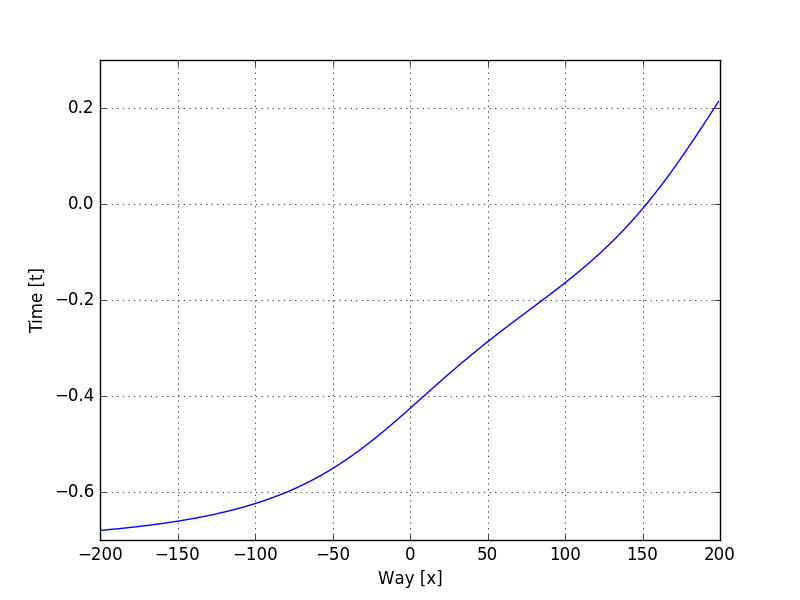
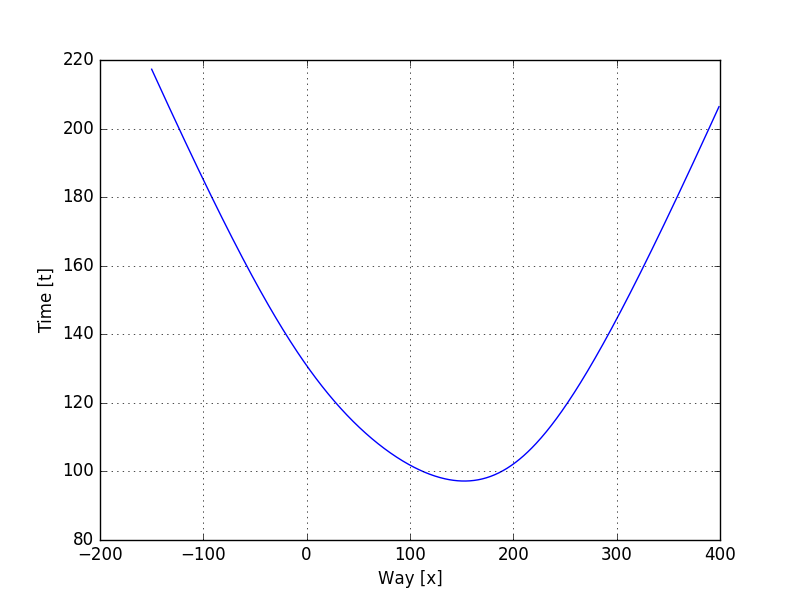
doc

diff --git a/doc/report.tex b/doc/report.tex
@@ -10,6 +10,11 @@
 \usepackage{listings}
 \usepackage{courier}
 
+\lstset{basicstyle=\footnotesize\ttfamily,
+    commentstyle=\color{Gray}\ttfamily,
+    belowcaptionskip=5em,
+    belowskip=4em,
+}
 \setcounter{secnumdepth}{4}
 \titleformat{\paragraph}
 {\normalfont\normalsize\bfseries}{\theparagraph}{1em}{}
@@ -58,44 +63,9 @@ Der Algorithmus läuft in $O(m\sqrt{k})$
 
 Wir implementierten für diesen Algorithmus eine Schlaufe, welche mit unterschiedlichen Lambdas die Zeit misst. Dies setzten wir anhand der obigen Funktion $x^2$ um. Folgende Messwerte erhalten wir:\\
 
-\begin{lstlisting}
-Run with lambda = 0.0001 --------------------------------
-Result = -0.000005
-Took 4.716165 ms 
+\lstinputlisting[language=bash]{grad_time.out}
 
-Run with lambda = 0.0501 --------------------------------
-Result = -0.002247
-Took 0.005039 ms 
 
-Run with lambda = 0.1001 --------------------------------
-Result = -0.003930
-Took 0.002226 ms 
-
-Run with lambda = 0.1501 --------------------------------
-Result = -0.003967
-Took 0.001478 ms
-
-...
-
-Run with lambda = 0.5001 --------------------------------
-Result = -0.000000
-Took 0.000219 ms 
-
-Run with lambda = 0.5501 --------------------------------
-Result = -0.000504
-Took 0.000340 ms
-
-... 
-
-Run with lambda = 0.9501 --------------------------------
-Result = -0.039679
-Took 0.003178 ms 
-
-Run with lambda = 1.0001 --------------------------------
-\end{lstlisting}
-
-\bigbreak
-\bigbreak
 Wie wir aus dem obigen Output entnehmen können, sind sowohl $0.0001$ wie auch $1$ nicht sinnvoll für die Verwendung von Lambda. Die obigen Berechnungen wurden mit der quadratischen Funktion $x**2$ durchgeführt und als Anfangspunkt wurde $x=-5$ gwählt. Dieser hat jedoch keinen Einfluss, da die Berechnungen immer relativ zueinander stehen. 
 
 \paragraph{Bedingungen}
@@ -106,6 +76,11 @@ Der Algorithmus beginnt also vom Punkt $x=-5$ an, die 1. Ableitung zu berechnen.
 
 \subsubsection{Nelder-Mead}
 TODO
+
+\paragraph{Laufzeit}
+Der Algorithmus läuft im schlechtesten Fall in $O(n^2)$
+
+\paragraph{Bedingungen}
 
 
 \subsubsection{Nullstelle der Ableitung}
@@ -183,15 +158,25 @@ $m$ können wir nun frei wählen. Folgende Grafik veranschaulicht das Optimum, f
     \caption{Rettungsschwimmer mit $m=100$}\label{lifeguard_100}
 \end{figure}
 
-Es ist ersichtlich, dass bei $y=0$ der Wert von $x$ bei $1.5259*100=152.59$ liegt.
+Aus Abbildung~\ref{lifeguard_100} ist ersichtlich, an welcher Stelle $x$ optimal sein wird. Wie wir rechnersch bereits bewiesen haben, ist diese Extremalstelle, hier ein globales Minimum, die kürzeste mögliche Zeit, die der Retter zurücklegen wird. Wir haben nun die Lösung mathematisch mit der Gleichsetzung der 1. Ableitung zu 0 erhalten. 
 
 
 \subsection{Versicherungsprämienrechner}
 
 \section{Diskussion}
 \subsubsection{Anwendbarkeit der Methoden}
+Alle Methoden können als Hilfestellung für die Findung von Extremalstellen verwendet werden. Durch ihre unterschiedlichen Voraussetzungen ist aber nicht jede der Methoden gleich gut für eine Problemstellung geeignet. Beim Bisektionsalgorithmus ist die Voraussetzung, dass ein Intervall bekannt ist, in welchem eine Extremalstelle liegen muss. Ausserdem muss sichergestellt sein, dass nur eine solche Stelle darin liegt. Was zunächst als massive Einschränkung aufgenommen werden kann, kann in der Realität möglicherweise sogar als Vorteil betrachet werden, sofern die Punkte im Kontext einfach bestimmt werden können.\\
+Ähnlich wie der Bisektionsalgorithmus verhält sich das Gradientenverfahren. Bei dieser Methode ist vorausgsetzt, dass ein Punkt bekannt ist, welcher links von einer Extremalstelle liegt. Der Algorithmus könnte für eine bestimmte Anwendung so erweitert werden, dass ein Punkt gewählt wird, welcher über eine gefundene Extremalstelle hinaus weitersucht. Dort sieht sich aber die Gefahr, dass der nächste Punkt viel weiter weg sein könnte, was eine höhere Laufzeit zur Folge hätte.\\
+Beim Nelder-Mead Algorithmus sehen wir den Vorteil, dass wir ausser zwei frei wählbare Zahlen nichts benötigen, um eine Extremalstelle zu bestimmen. 
 \subsubsection{Vorteile}
 \subsubsection{Nachteile}
 \subsubsection{Gegenüberstellung der Laufzeiten}
+Einen direkten Vergleich der Laufzeiten an sich ist heikel. Wir können aus den obigen Diskussionen entnehmen, dass beim einfachen Gradientenverfahren ein Zeitverlust akzeptiert werden muss, falls der Startpunkt sich sehr weit von der Extremalstelle weg befindet. Anders als das Bisektions- und Gradientenverfahren verwendet der Nelder-Mead Algorithmus die 1. Ableitung nicht. Dies führt zu einem Zeitgewinn, welchen wir nicht direkt gemessen haben, aber trotzdem erahne lässt, dass dies ein Vorteil verschafft. 
+
+\section{Referenzen}
+\begin{list}{}{}
+\item http://www.b-landau.de/simplex-algorithmus/
+\end{list}
+
 
 \end{document}

diff --git a/gradientenverfahren.py b/gradientenverfahren.py
@@ -8,9 +8,9 @@ def algorithm(lmbda):
     fhelper.func = "x**2"  # raw_input("Enter function: ")
 
     x_range = np.arange(-50, 50)
-    # fig = plt.figure()
-    # ax = fig.add_subplot(111)
-    # ax.plot(x_range, [fhelper.f(value) for value in x_range])
+    fig = plt.figure()
+    ax = fig.add_subplot(111)
+    ax.plot(x_range, [fhelper.f(value) for value in x_range])
 
     point = -5
     df_result = fhelper.df(point)
@@ -18,34 +18,35 @@ def algorithm(lmbda):
         df_result = fhelper.df(point)
         point -= lmbda * df_result
 
-    print("Precision = %f" % point)
+    print("Extremalstelle bei x = %f" % point)
 
-    # point1 = -40
-    # x_range_tan = np.arange(point1 - 20, point1 + 20)
-    # ax.plot(x_range_tan, fhelper.tan(x_range_tan, point1))
-    #
-    # point2 = -20
-    # x_range_tan = np.arange(point2 - 20, point2 + 20)
-    # ax.plot(x_range_tan, fhelper.tan(x_range_tan, point2))
-    #
-    # x_range_tan = np.arange(point - 20, point + 20)
-    # ax.plot(x_range_tan, fhelper.tan(x_range_tan, point))
-    #
-    # plt.grid(True)
-    # ax.set_xlabel("x")
-    # ax.set_ylabel("y")
-    # plt.savefig("doc/gradient.png")
+    point1 = -40
+    x_range_tan = np.arange(point1 - 20, point1 + 20)
+    ax.plot(x_range_tan, fhelper.tan(x_range_tan, point1))
+
+    point2 = -20
+    x_range_tan = np.arange(point2 - 20, point2 + 20)
+    ax.plot(x_range_tan, fhelper.tan(x_range_tan, point2))
+
+    x_range_tan = np.arange(point - 20, point + 20)
+    ax.plot(x_range_tan, fhelper.tan(x_range_tan, point))
+
+    plt.grid(True)
+    ax.set_xlabel("x")
+    ax.set_ylabel("y")
+    plt.savefig("doc/gradient.png")
 
 
 def main():
-    values = np.arange(0.0001, 2, 0.05)
-    for lmdba in values:
-        print("Run with lambda = %s --------------------------------" % lmdba)
-        t1 = time.time()
-        algorithm(lmdba)
-        t2 = time.time()
-        delta = t2 - t1
-        print("Took %f ms \n" % delta)
+    algorithm(0.001)
+    # values = np.arange(0.0001, 2, 0.05)
+    # for lmdba in values:
+    # print("Run with lambda = %s --------------------------------" % lmdba)
+    # t1 = time.time()
+    # algorithm(lmdba)
+    # t2 = time.time()
+    # delta = t2 - t1
+    # print("Took %f ms \n" % delta)
 
 
 if __name__ == '__main__':

diff --git a/lifeguard.py b/lifeguard.py
@@ -8,10 +8,10 @@ global ax
 def main():
     fhelper.func = "math.sqrt(100**2+(2*100-x)**2)/2.1+math.sqrt(100**2+x**2)/4.1"
 
-    x_range = np.arange(-200, 200)
+    x_range = np.arange(-150, 400)
     fig = plt.figure()
     ax = fig.add_subplot(111)
-    ax.plot(x_range, [fhelper.df(value) for value in x_range])
+    ax.plot(x_range, [fhelper.f(value) for value in x_range])
 
     plt.grid(True)
     ax.set_xlabel("Way [x]")
